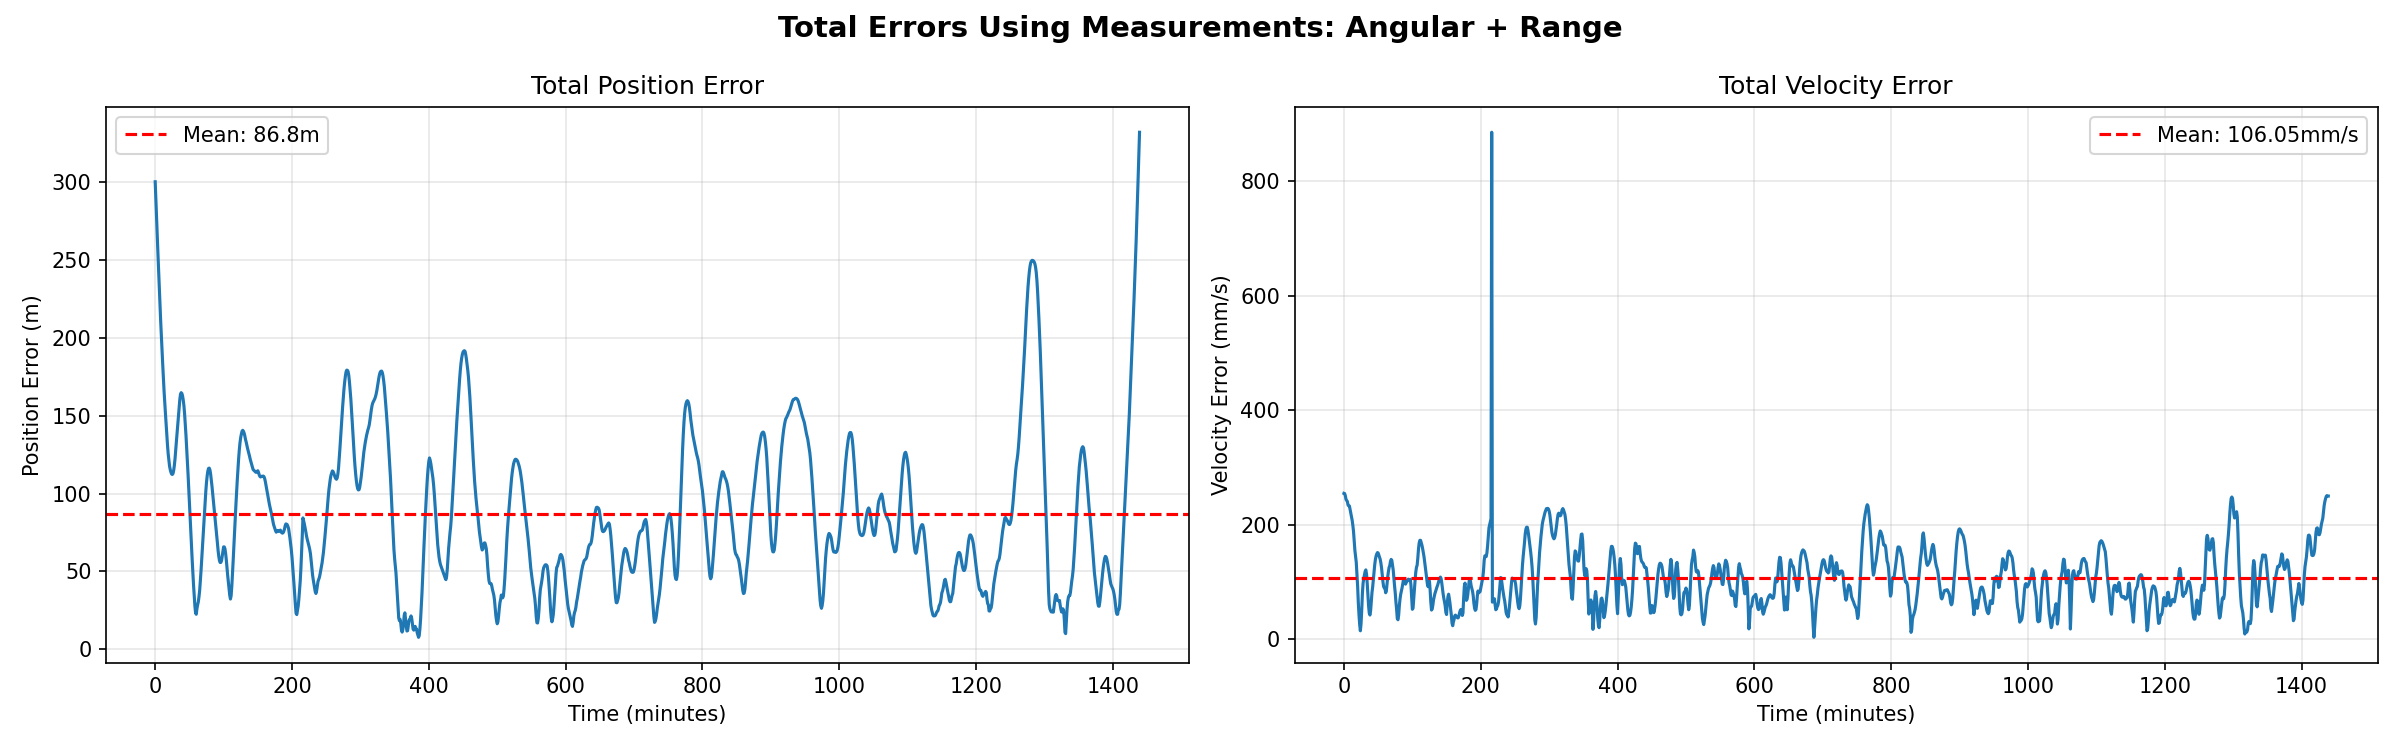
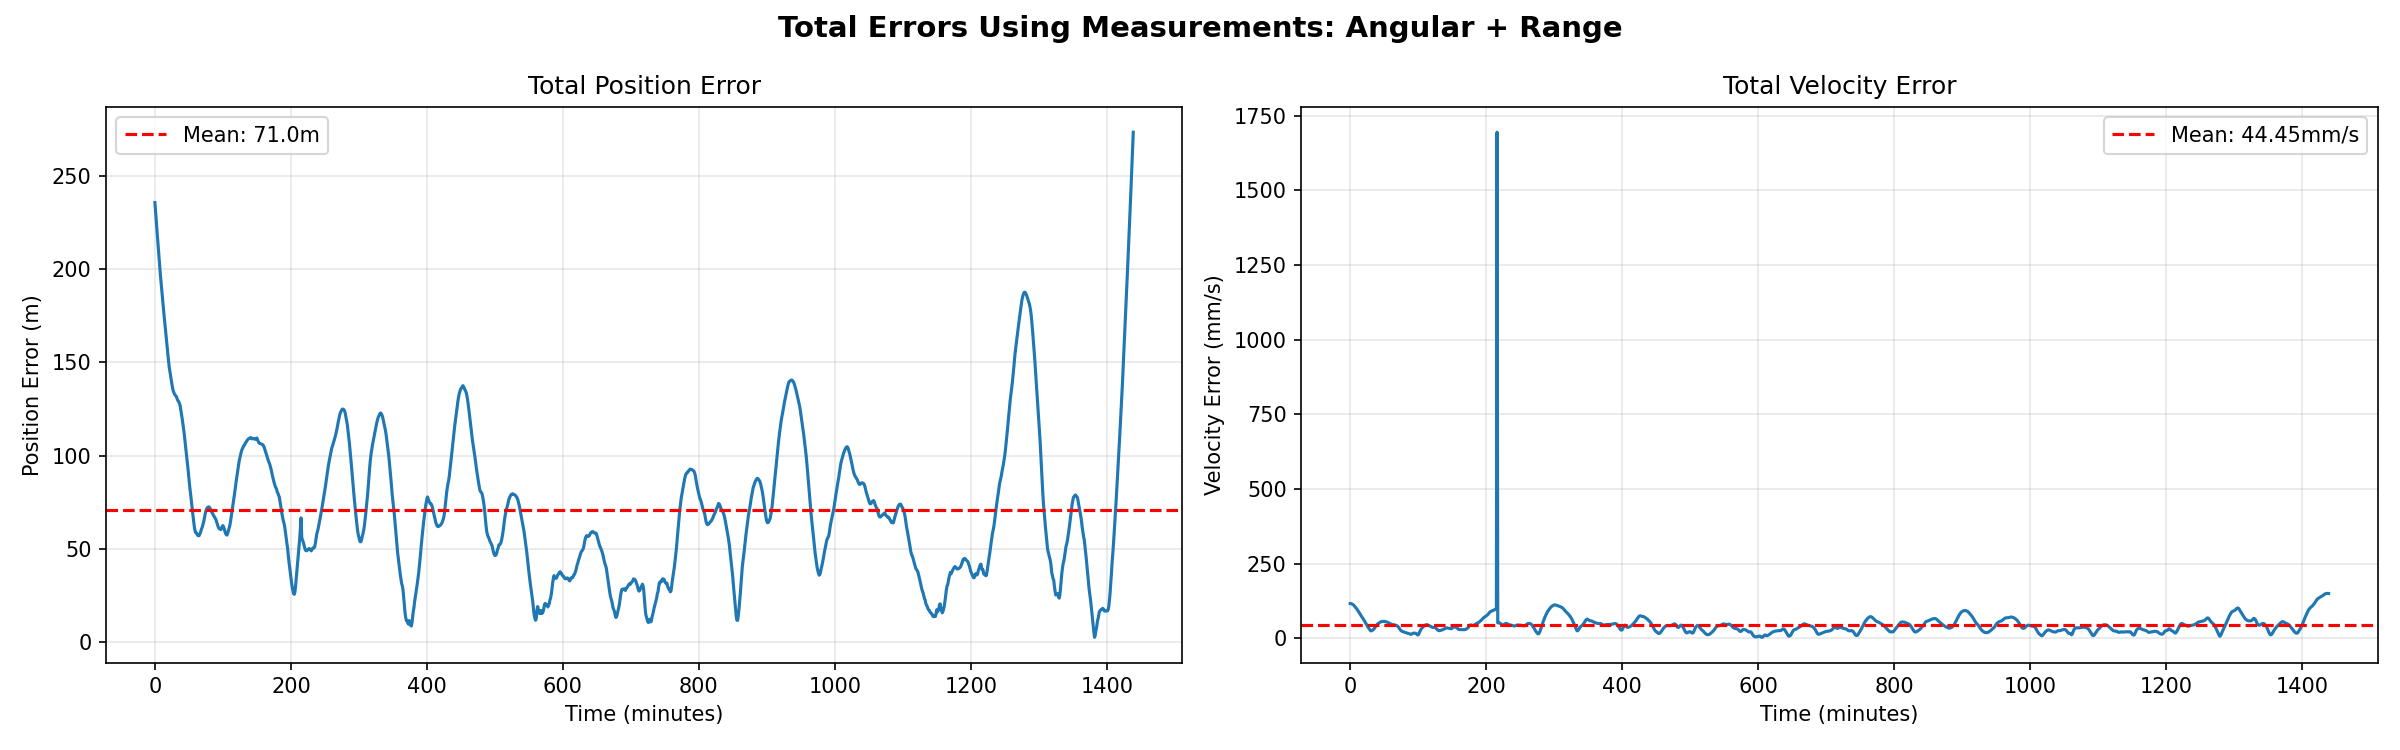
Completed: epoch estimation + some variable/mc testing

diff --git a/compare_ge-astt.py b/compare_ge-astt.py
@@ -27,8 +27,8 @@ configs = [
 ]
 
 configs = [
-    # ("configs/config_geo_one_rev_deltaXYZ1.yml", "deltaXYZ1"),
-    ("configs/config_geo_one_rev_deltaXYZ1_simple.yml", "deltaZ1"),
+    ("configs/config_geo_one_rev_deltaXYZ1.yml", "deltaXYZ1_scaled_eps_refactor"),
+    # ("configs/config_geo_one_rev_deltaXYZ1_simple.yml", "deltaXYZ1_simple_Qvel_0.000046"),
 ]
 
 # Smaller stddev -> from 0.5 to 0.01 m/s

diff --git a/noise_variables_results.md b/noise_variables_results.md
@@ -89,7 +89,34 @@ For reference, the paper (Zhang et al.): $t^*$ RMSE = 2.86s at $dt=10s$ with bat
 | 60 | 0.000046 | 100.0 | -20.21 | 0.0318 |
 | 30 | 0.000046 | 100.0 | 24.79 | 0.0468 |
 
+## Monte Carlo t* distribution ($J2+SRP$, $dt=60$ s)
+- Model: $J2+SRP$ (simple config)
+- $Q_{pos}=4.2\times 10^{-4}$, $Q_{vel}=1.4\times 10^{-5}$ (3x J2+SRP mismatch)
+- $\Delta v$ = [1.0, 1.0, 1.0] m/s, angular noise = 10 arcsec, range noise = 100 m
+- $t^*_{initial\_error}$ = 120 s, $\Delta v_{initial\_error}$ = 0.1 m/s
+- Independent RNG seed per trial (measurements, $x_0$, $\Delta v$/$t^*$ initial guesses)
 
+### 20-seed distribution
 
+| metric | mean | std-dev | RMS | min | max | median |
+|:------|------:|------:|------:|------:|------:|------:|
+| $t^*$ error (s) | -1.52 | 17.16 | 17.23 | -26.50 | +60.41 | -1.95 |
+| \|$\Delta v_{error}$\| (m/s) | 0.058 | 0.135 | 0.147 | 0.005 | 0.642 | 0.025 |
+| pos RMS (m) | 545.4 | 2171.7 | 2239.2 | 36.2 | 10011.6 | 45.5 |
+| vel RMS (m/s) | 0.067 | 0.147 | 0.161 | 0.011 | 0.702 | 0.047 |
 
+- Roughly unbiased in $t^*$ (mean $\approx$ median $\approx -2$ s) with $\sigma \approx 17$ s at $dt=60$.
+- One extreme outlier (seed 19) diverged to pos RMS = 10 km; median stats reflect typical behaviour.
 
+### Angular-noise sensitivity (5 seeds/level, same $Q$)
+
+| $\sigma_{angle}$ (arcsec) | $t^*$ RMS (s) | $t^*$ mean (s) | $t^*$ std-dev (s) | \|$\Delta v_{error}$\| (m/s) | pos RMS (m) | vel RMS (m/s) |
+|------:|------:|------:|------:|------:|------:|------:|
+| 1.0 | 11.62 | -8.72 | 7.69 | 0.022 | 14.4 | 0.0446 |
+| 5.0 | 14.07 | -9.36 | 10.51 | 0.023 | 37.4 | 0.0395 |
+| 10.0 | 13.93 | -8.89 | 10.72 | 0.025 | 49.3 | 0.0403 |
+| 36.0 | 13.82 | -8.47 | 10.92 | 0.029 | 68.0 | 0.0408 |
+
+- **$t^*$ error is seed-locked, not noise-level-locked**: per-seed $t^*$ values stay within ~2 s of themselves across the full 1"-36" range (e.g. seed 3 gives $-22$ to $-27$ s at all noise levels).
+- **Position RMS scales linearly with angular noise** (14 m at 1" $\to$ 68 m at 36"), confirming the measurement channel is healthy.
+- **Conclusion**: at $dt=60$ the $t^*$ precision floor is set by dynamics/sub-stepping coupling (Gaussian pulse window vs $dt$ grid), not measurement noise. Matches the earlier $dt$-scaling observation ($t^*$ error $\propto dt$).

diff --git a/TODO.md b/TODO.md
@@ -1,3 +1,4 @@
 - Function docs for SatelliteOrbitFGO class in [Orbit_FGO.py](Orbit_FGO.py)
 - Make config file noise variable prints indicate that it is actually covariance. e.g. Expected Process noise covariance
 - Monte-Carlo testing + removing the static random seed
+- Express Delta-V in terms of RTN/ In-track cross track frame rather than xyz
